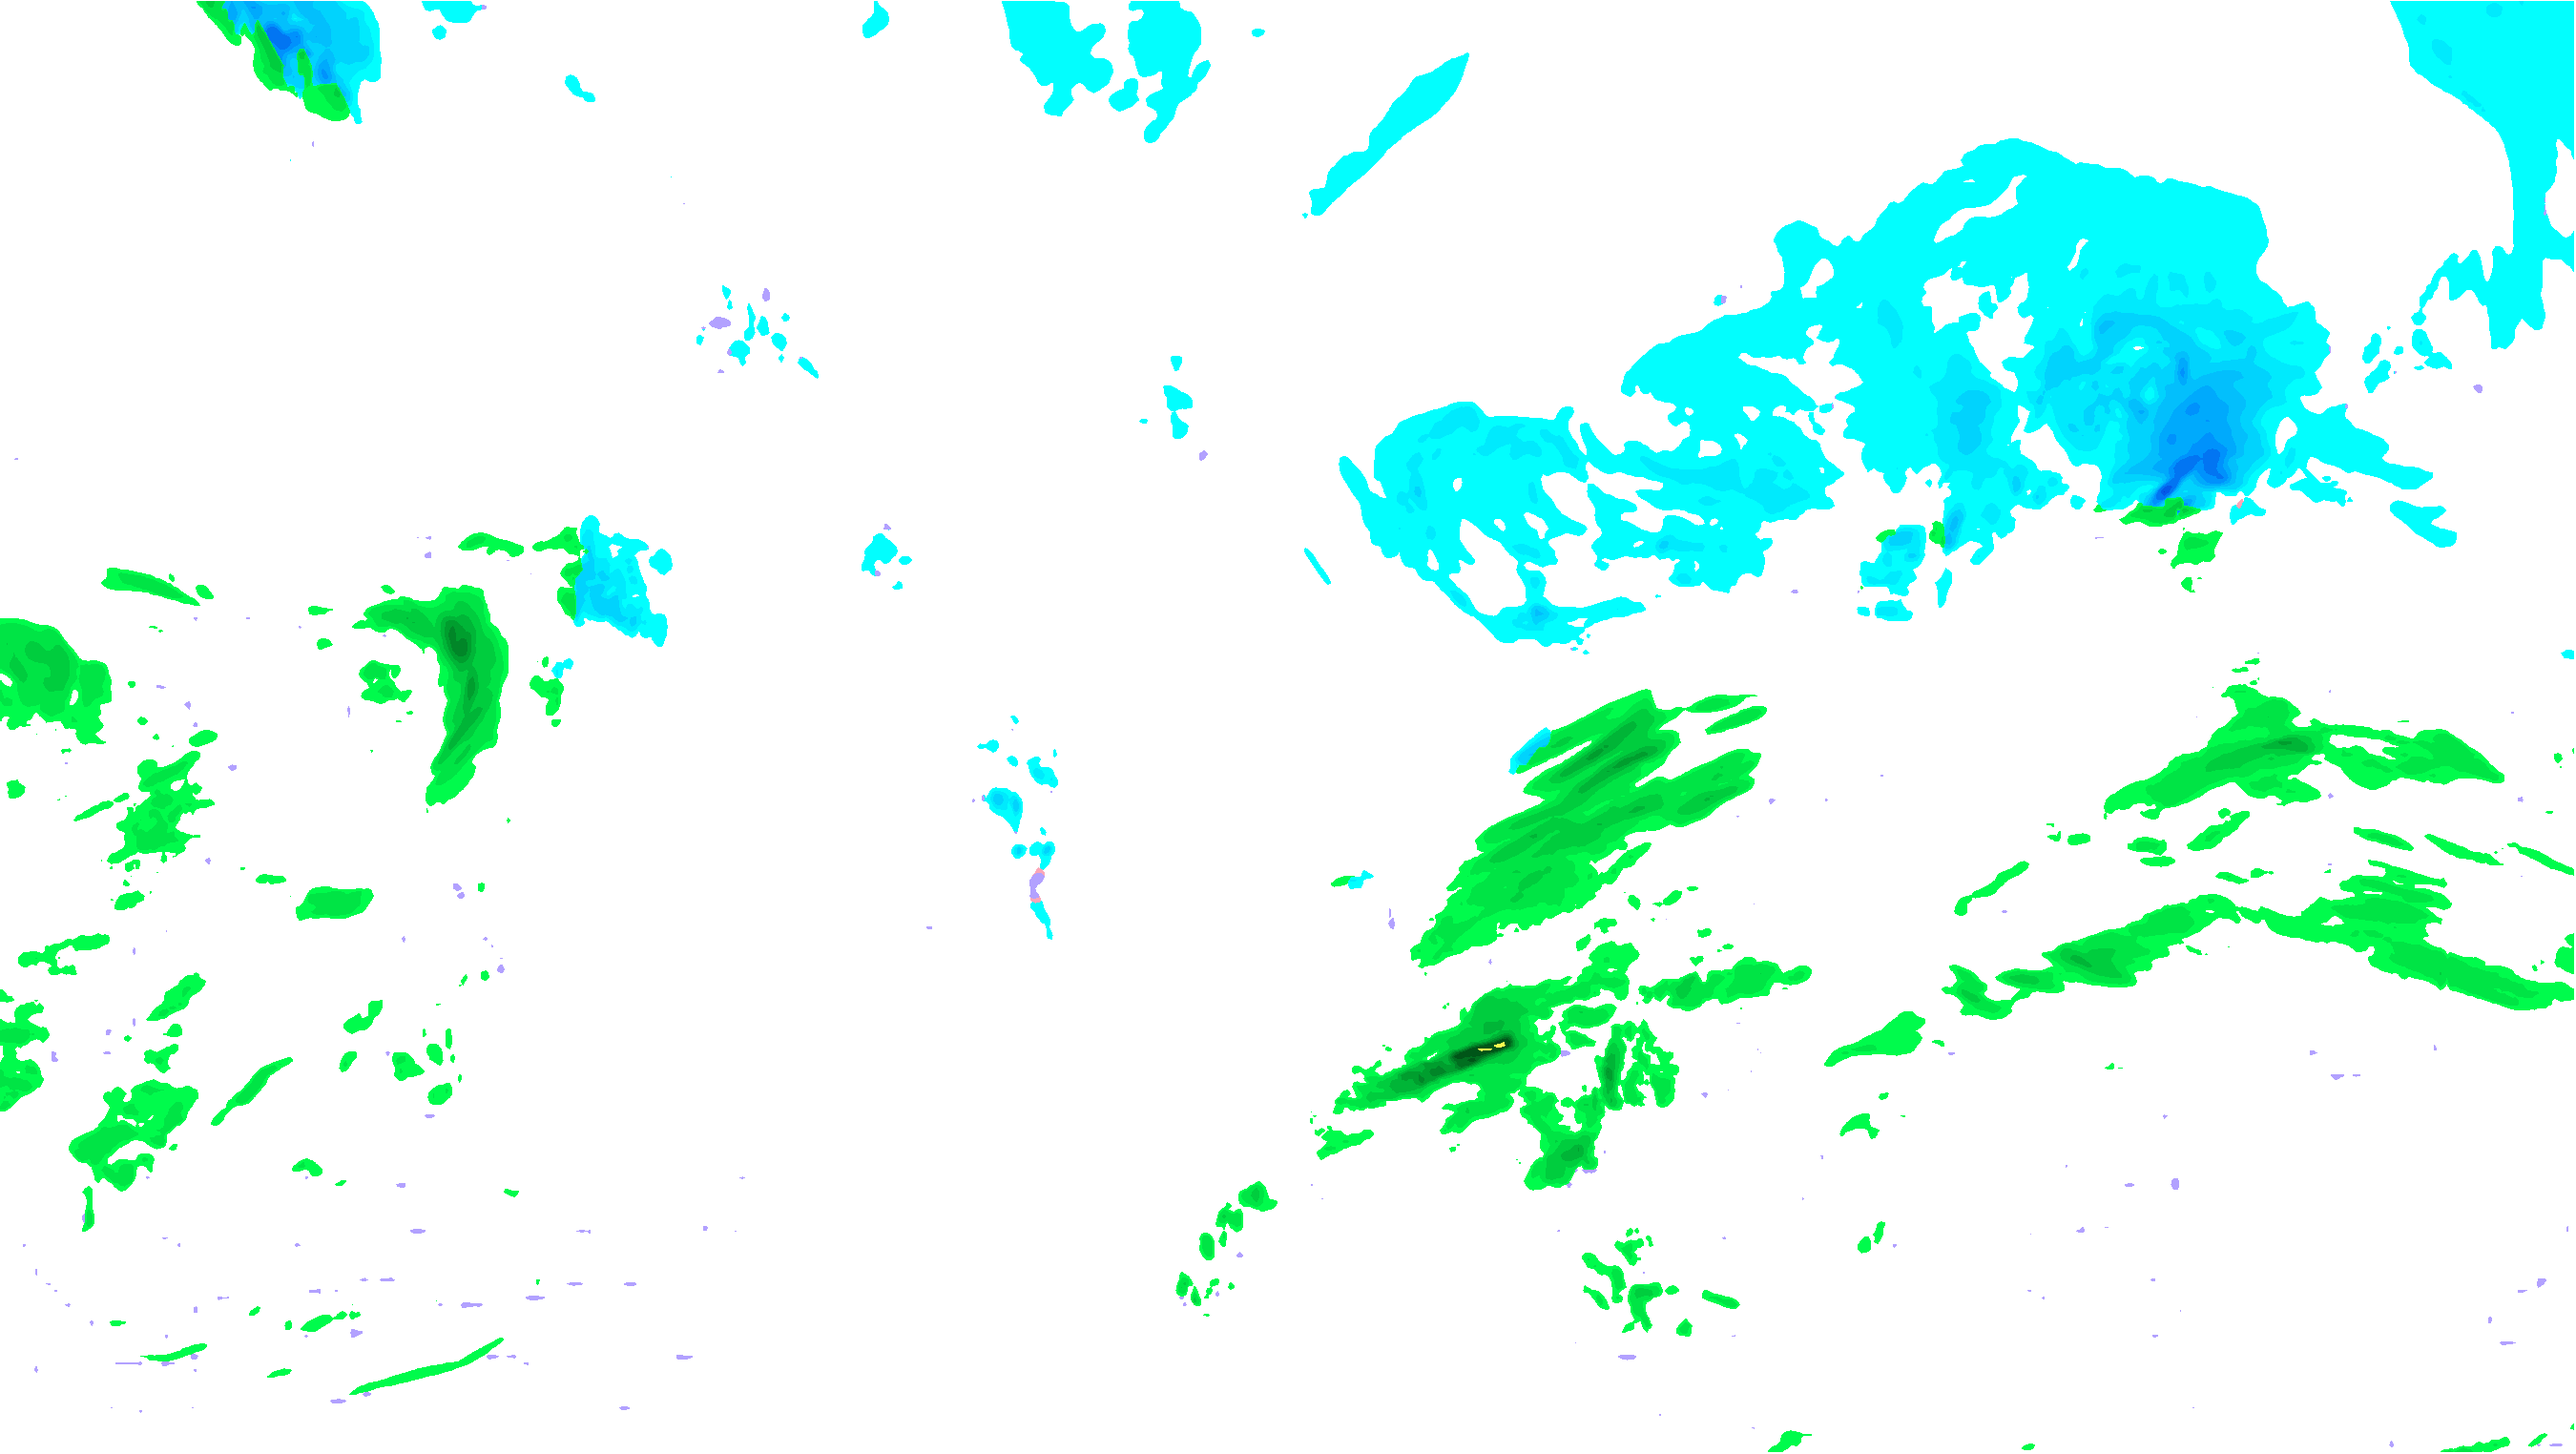
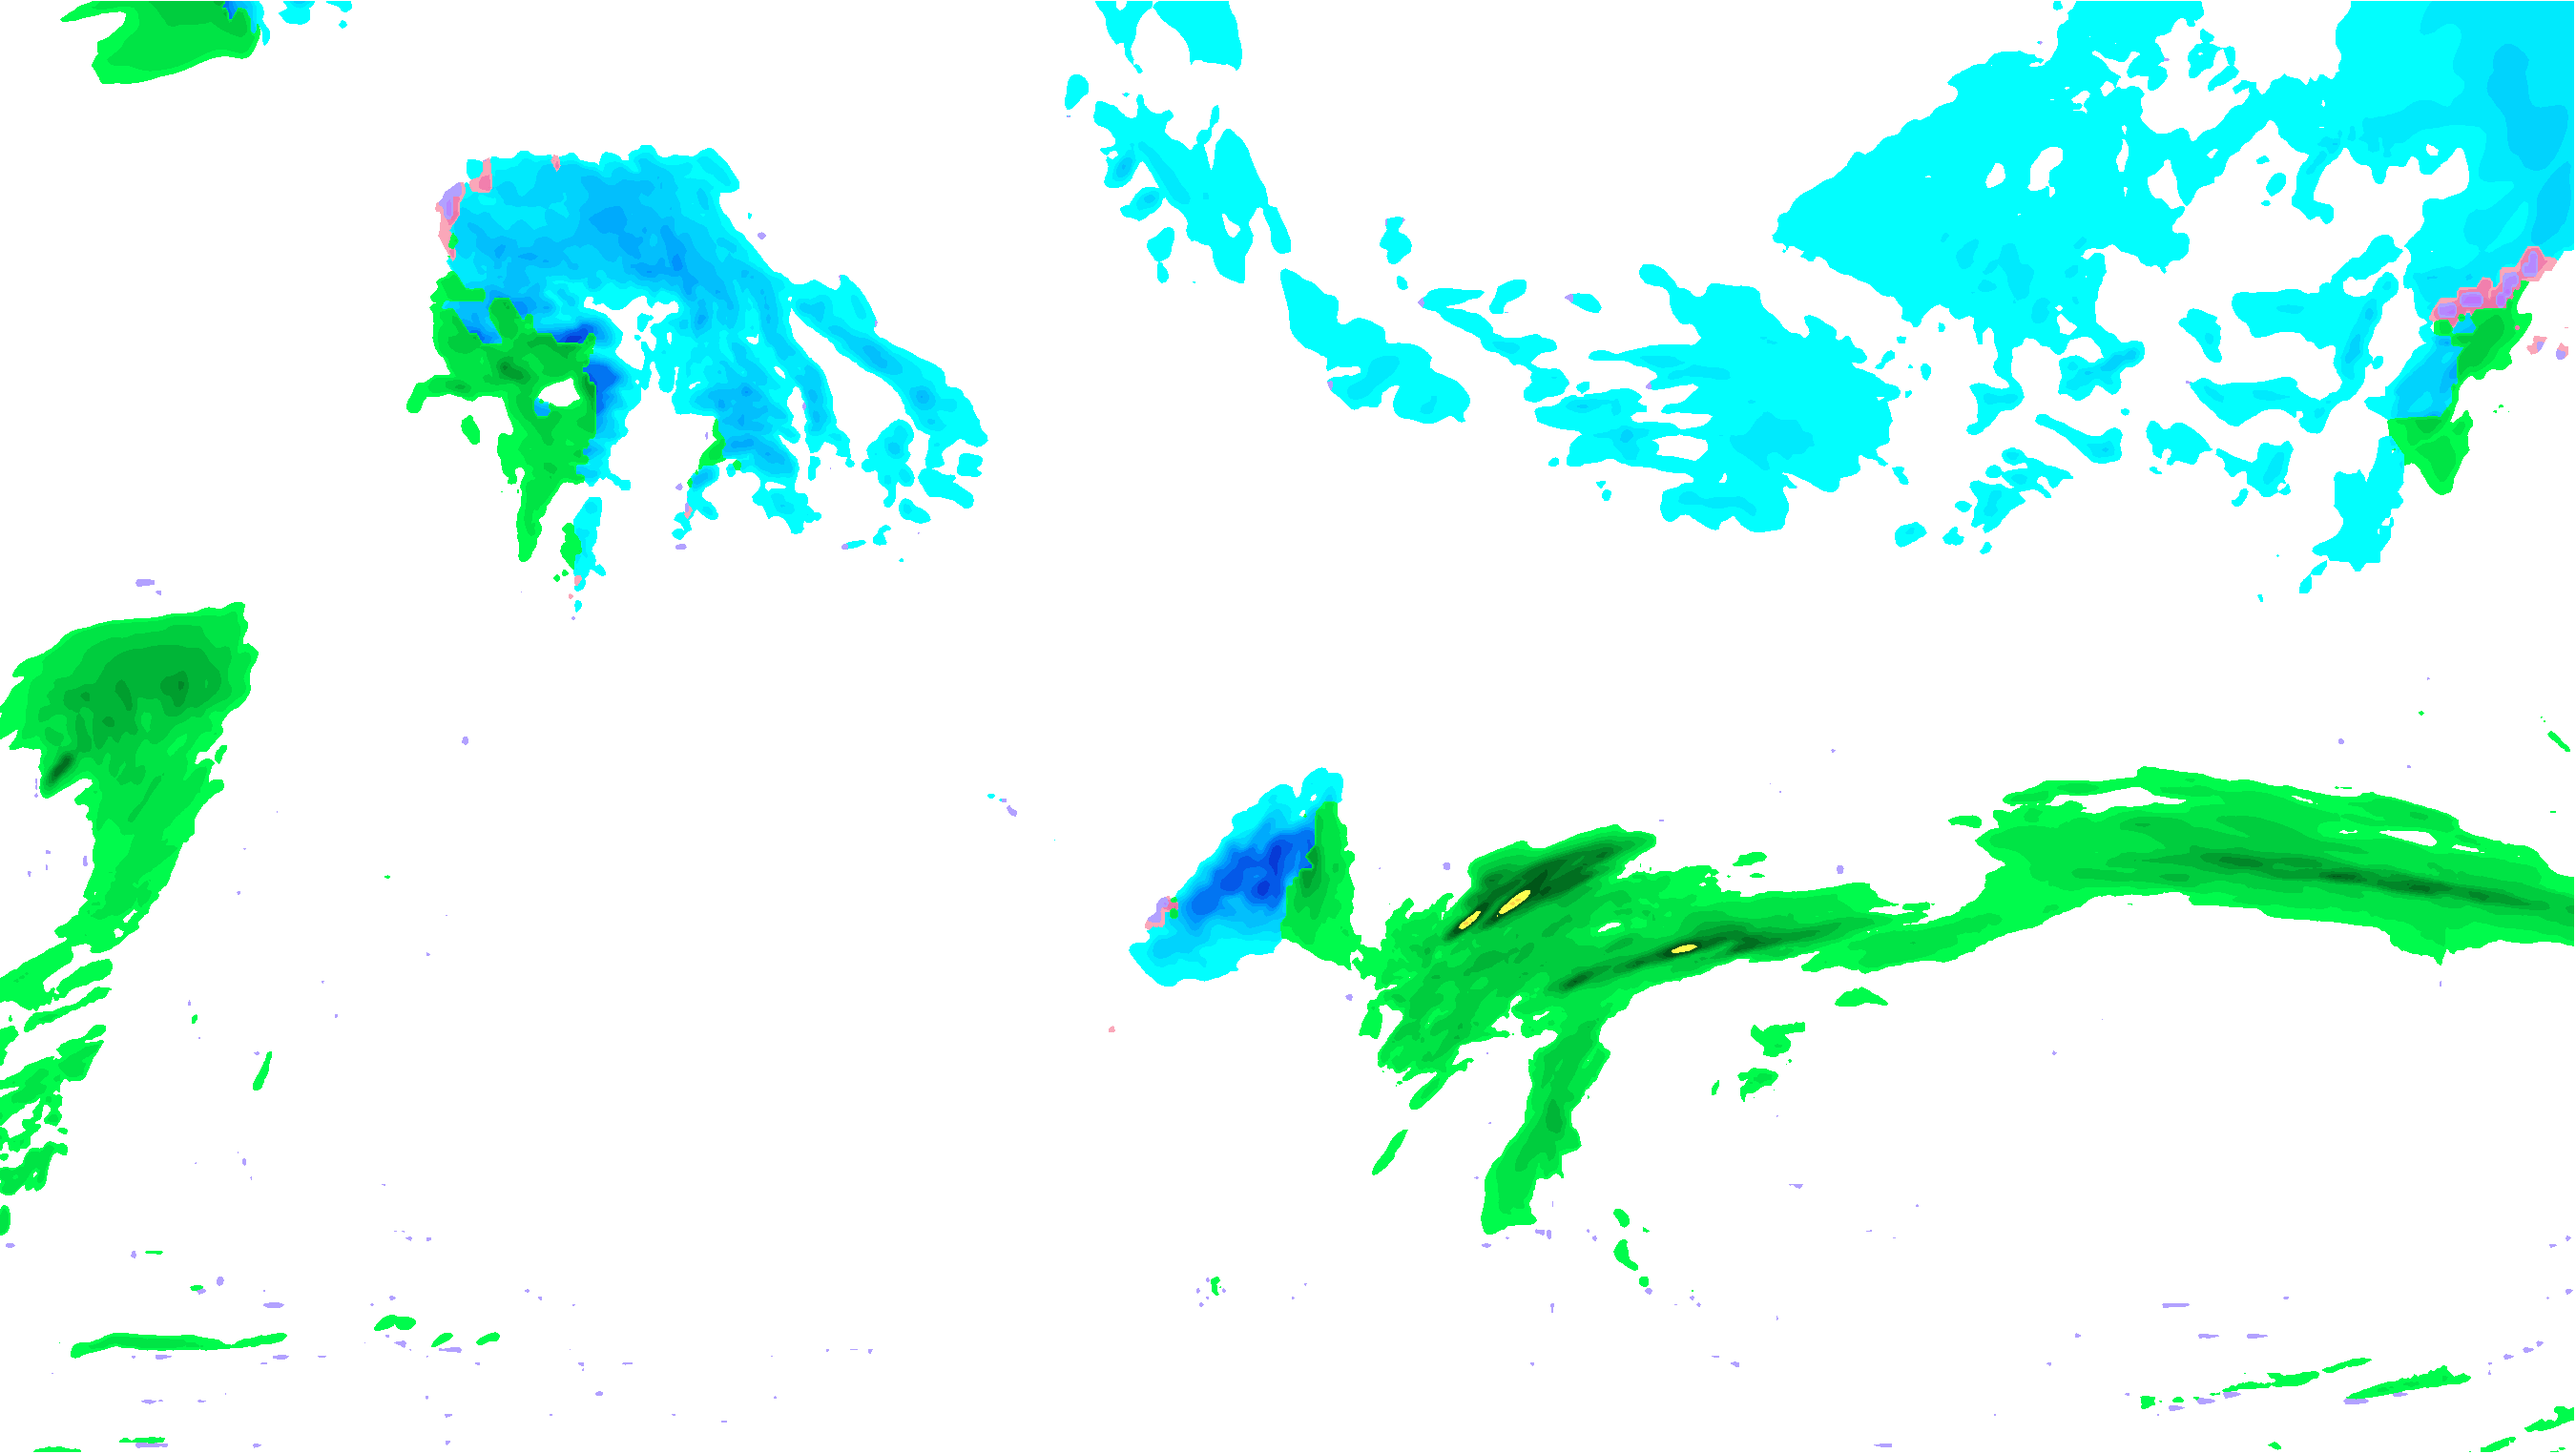
February 11, 2024 Update
Push new maps.

diff --git a/index.html b/index.html
@@ -18,7 +18,7 @@
             <div id="map" class="webmap-new"></div>
           </div>
           <div class="map-info-embed">
-            <p id="currentDate" class="slider-header">Feb 04, 2024, 7 AM EST</p>
+            <p id="currentDate" class="slider-header">Feb 11, 2024, 7 AM EST</p>
           </div>
           <div class="sliderOverlay">
             <input type="range" id="dateSlider" class="slider" min="0" max="39" value="0" step="1">

diff --git a/main.js b/main.js
@@ -22,8 +22,8 @@ map.addControl(new mapboxgl.GeolocateControl({
 const dateTimes = [];
 
 // Set the start and end date
-const startDate = new Date('2024-02-04T12:00:00');
-const endDate = new Date('2024-02-27T23:00:00');
+const startDate = new Date('2024-02-11T12:00:00');
+const endDate = new Date('2024-03-10T23:00:00');
 
 // Loop through the hours between start and end dates
 let currentDate = startDate;

diff --git a/UCAR-GFS-P-Type.py b/UCAR-GFS-P-Type.py
@@ -36,7 +36,7 @@ def readLocalData(data_path,extent):
 
 def readCloudData(extent,prateShape,i):
     # Open the NOMADS GFS file
-    ds = xr.open_dataset('http://nomads.ncep.noaa.gov:80/dods/gfs_0p25/gfs20240204/gfs_0p25_06z')
+    ds = xr.open_dataset('http://nomads.ncep.noaa.gov:80/dods/gfs_0p25/gfs20240211/gfs_0p25_06z')
         
     cropped_ds = ds.sel(lat=slice(extent[2],extent[3]), lon=slice(extent[0]+360,extent[1]+360))
     
@@ -122,7 +122,8 @@ def startScript():
     for i in np.arange(6,246,6):
         i = str(i).zfill(3)
         print(i)
-        url = f'https://nomads.ncep.noaa.gov/pub/data/nccf/com/gfs/prod/gfs.20240204/06/atmos/gfs.t06z.sfluxgrbf{i}.grib2'
+        #url = f'https://nomads.ncep.noaa.gov/pub/data/nccf/com/gfs/prod/gfs.20240204/06/atmos/gfs.t06z.sfluxgrbf{i}.grib2'
+        url = f'https://nomads.ncep.noaa.gov/pub/data/nccf/com/gfs/prod/gfs.20240211/06/atmos/gfs.t06z.sfluxgrbf{i}.grib2'
         urllib.request.urlretrieve(url,f'./Data/GFS/MostRecent/{i}.grib2')
         
         buildMap(i,ax,extent)
